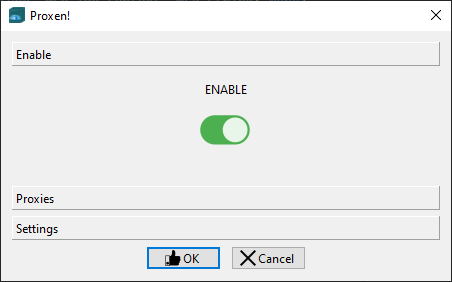
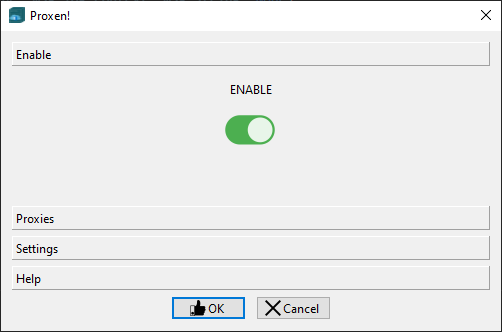
README update

diff --git a/gui.py b/gui.py
@@ -1,7 +1,7 @@
 # -*- coding: utf-8 -*-
 ## @package proxen.gui
 # @brief The GUI app main window implementation -- see MainWindow class.
-import os, json, struct
+import os, json, struct, webbrowser
 import traceback
 
 from qtimports import *
@@ -895,7 +895,7 @@ class MainWindow(BasicDialog):
         ## `gui::QThreadStump` thread to apply proxy changes to system
         self.thread_apply = QThreadStump(on_run=None, on_start=self._on_apply_start,
                                          on_finish=self._on_apply_finish, on_error=self._on_apply_finish)
-        super().__init__(title='Proxen!', icon='proxen.png', geometry=(rec.width() // 2 - 225, rec.height() // 2 - 100, 450, 600),
+        super().__init__(title='Proxen!', icon='proxen.png', geometry=(rec.width() // 2 - 225, rec.height() // 2 - 100, 500, 600),
                          flags=QtCore.Qt.Dialog | QtCore.Qt.MSWindowsFixedSizeDialogHint)
         self.btn_OK.setToolTip('Apply changes and quit')
         self.btn_cancel.setToolTip('Cancel changes and quit')
@@ -1100,9 +1100,26 @@ class MainWindow(BasicDialog):
         self.lo_wappconfig.addWidget(self.btn_envedit)
 
         self.lo_wappconfig.addStretch()
-
         self.wappconfig.setLayout(self.lo_wappconfig)
         self.tb.addItem(self.wappconfig, 'Settings')
+
+        ## `QtWidgets.QWidget` help page
+        self.whelp = QtWidgets.QWidget()
+        self.lo_whelp = QtWidgets.QVBoxLayout()
+
+        self.act_help = QAction(QtGui.QIcon("resources/info1.png"), 'Open docs')
+        self.act_help.setShortcuts(QtGui.QKeySequence.HelpContents)
+        self.act_help.setToolTip('Read proxen documentation')
+        self.act_help.triggered.connect(self.on_act_help)
+        self.btn_help = QtWidgets.QToolButton()
+        self.btn_help.setToolButtonStyle(QtCore.Qt.ToolButtonTextBesideIcon)
+        self.btn_help.setFixedWidth(150)
+        self.btn_help.setDefaultAction(self.act_help)
+        self.lo_whelp.addWidget(self.btn_help)
+
+        self.lo_whelp.addStretch()
+        self.whelp.setLayout(self.lo_whelp)
+        self.tb.addItem(self.whelp, 'Help')
 
         self.layout_controls.addWidget(self.tb)
         # self.layout_controls.addStretch()
@@ -1279,7 +1296,7 @@ class MainWindow(BasicDialog):
     ## Triggers when the `MainWindow::tb` toolbox is changed by selecting a group.
     @Slot(int)
     def tb_currentChanged(self, index):
-        self.setFixedHeight(250 if index != 1 else 600)
+        self.setFixedHeight(300 if index != 1 else 600)
 
     ## Triggers when a proxy radio button is checked to show the settings
     # for the corresponding proxy.
@@ -1453,3 +1470,8 @@ class MainWindow(BasicDialog):
     @Slot(bool)
     def on_act_envedit(self, checked):
         TestEnv().exec()
+
+    ## `MainWindow::act_help` handler: shows help docs in browser 
+    @Slot(bool)
+    def on_act_help(self, checked):
+        webbrowser.open(os.path.join('file:///', utils.make_abspath('doc/html'), 'index.html'), new=2)

diff --git a/README2.md b/README2.md
@@ -1,5 +1,5 @@
 
-# What is proxen?
+# {#index}
 
 **proxen** is a small GUI tool to configure the web proxy settings on your system. Written completely in Python and relying on Qt5/6 for GUI, it works on any OS: Windows, Linux and Mac.
 
@@ -58,16 +58,16 @@ If you downloaded a ZIP release, go to `https://github.com/S0mbre/proxen/release
 The user interface is very intuitive.
 
 ### Enable / disable proxy with a single click
-![](/resources/screen_01.png)
+![](../resources/screen_01.png)
 
 ### Configure different proxies
-![](/resources/screen_02.png)
+![](../resources/screen_02.png)
 
 ### App settings
-![](/resources/screen_03.png)
+![](../resources/screen_03.png)
 
 ### Getting help
-![](/resources/screen_04.png)
+![](../resources/screen_04.png)
 
 ### Manual environment variable editing
-![](/resources/screen_05.png)
+![](../resources/screen_05.png)
